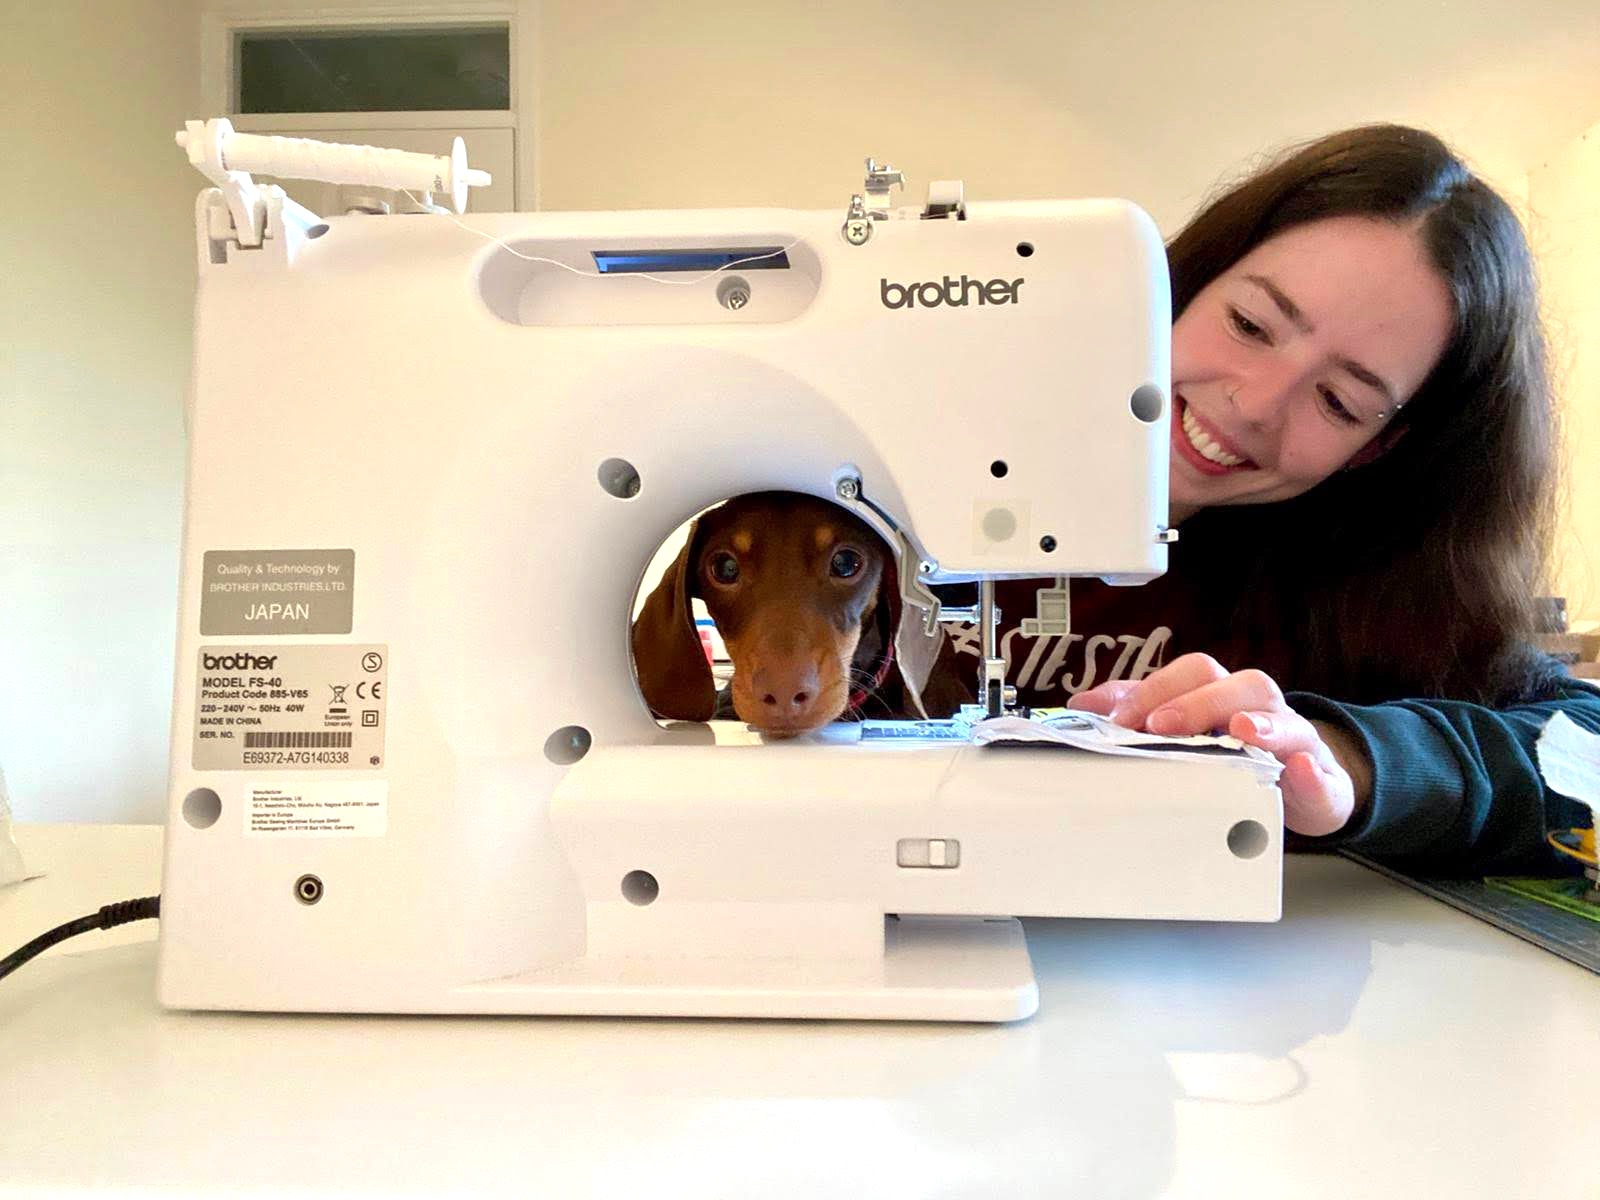
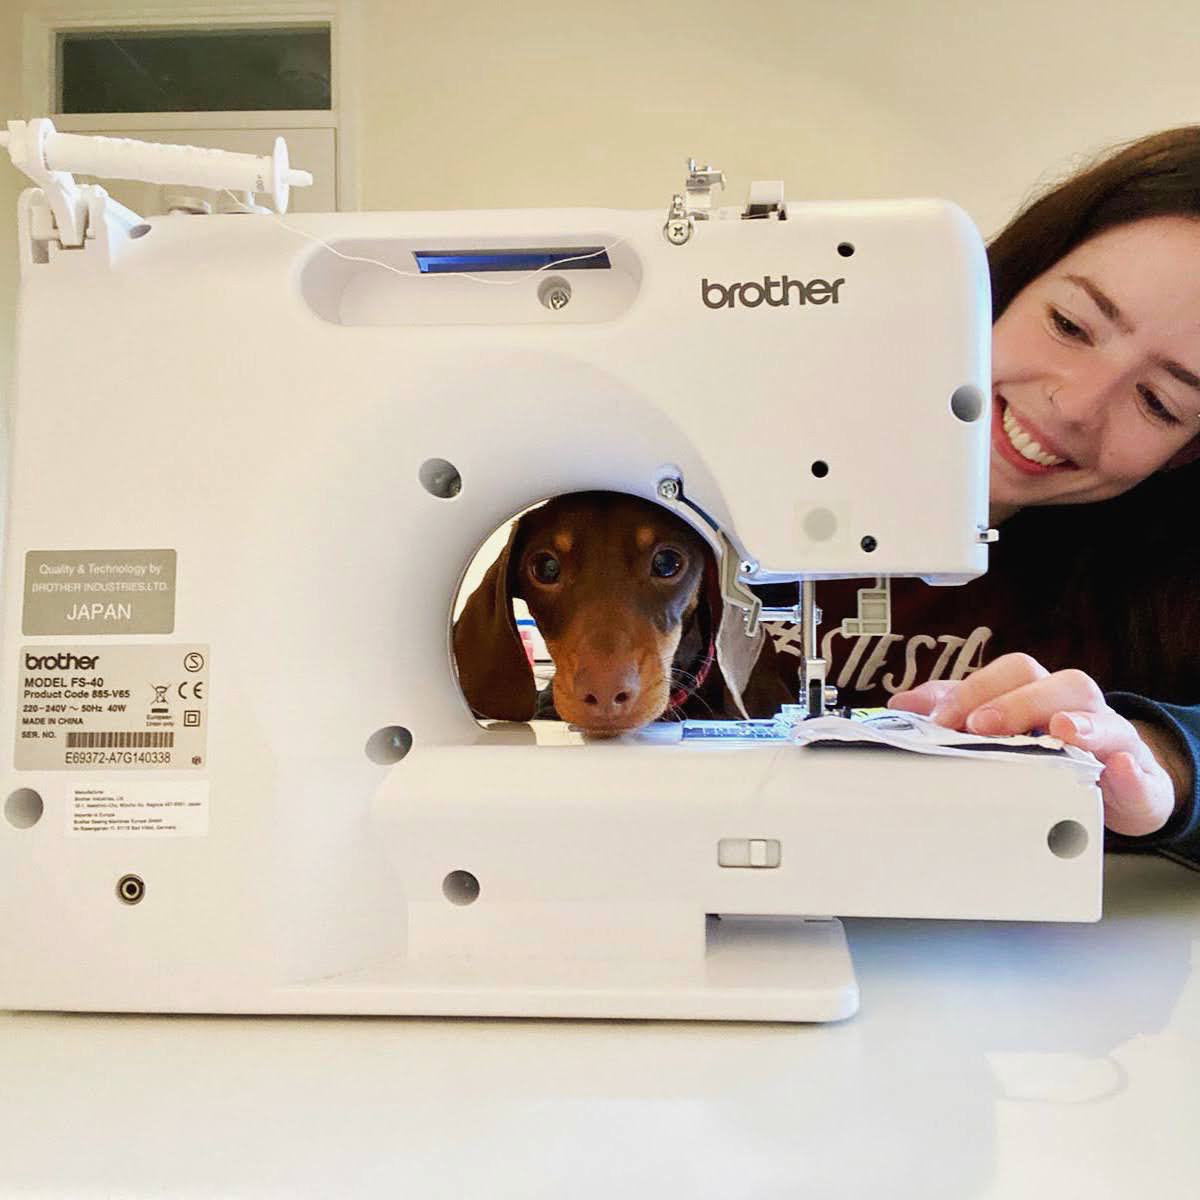
Image box size changed

diff --git a/layouts/_default/about.html b/layouts/_default/about.html
@@ -8,7 +8,7 @@
       <div class="col-lg-4 ">
         <div class="div-img-bg">
           <div class="about-img">
-            <img src="/img/joanna/joanna1.jpg" class="img-responsive" alt="me">
+            <div class="portfolio-item-aspect" style="background-image: url(/img/joanna/joanna1.jpg);"></div>
           </div>
         </div>
       </div>
